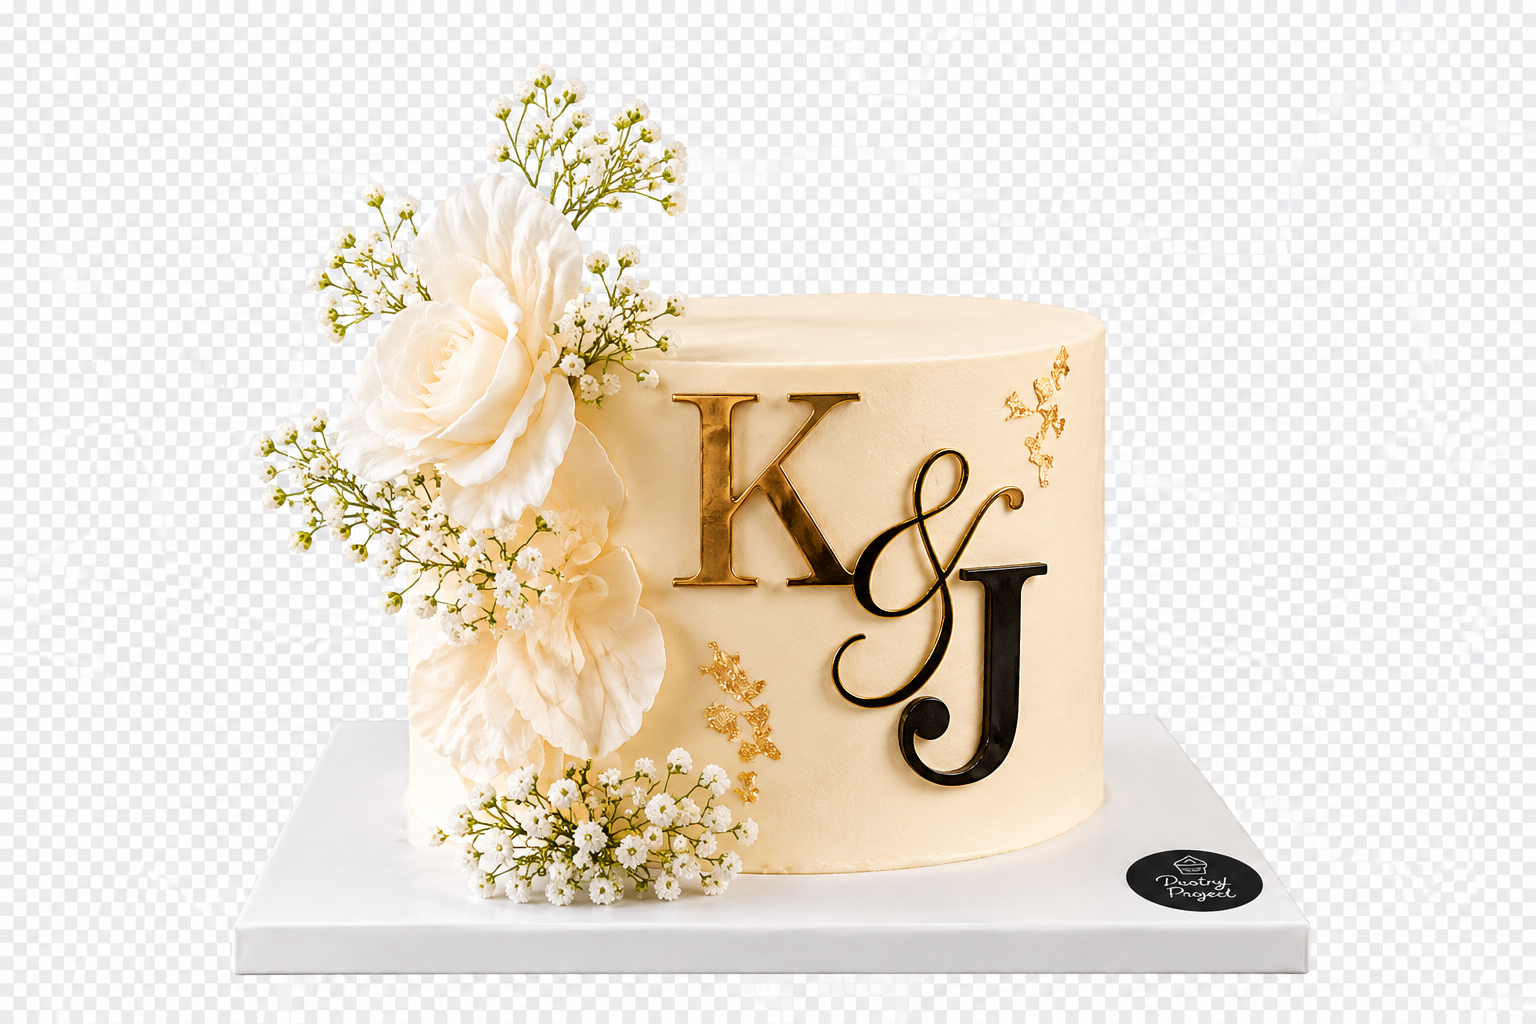
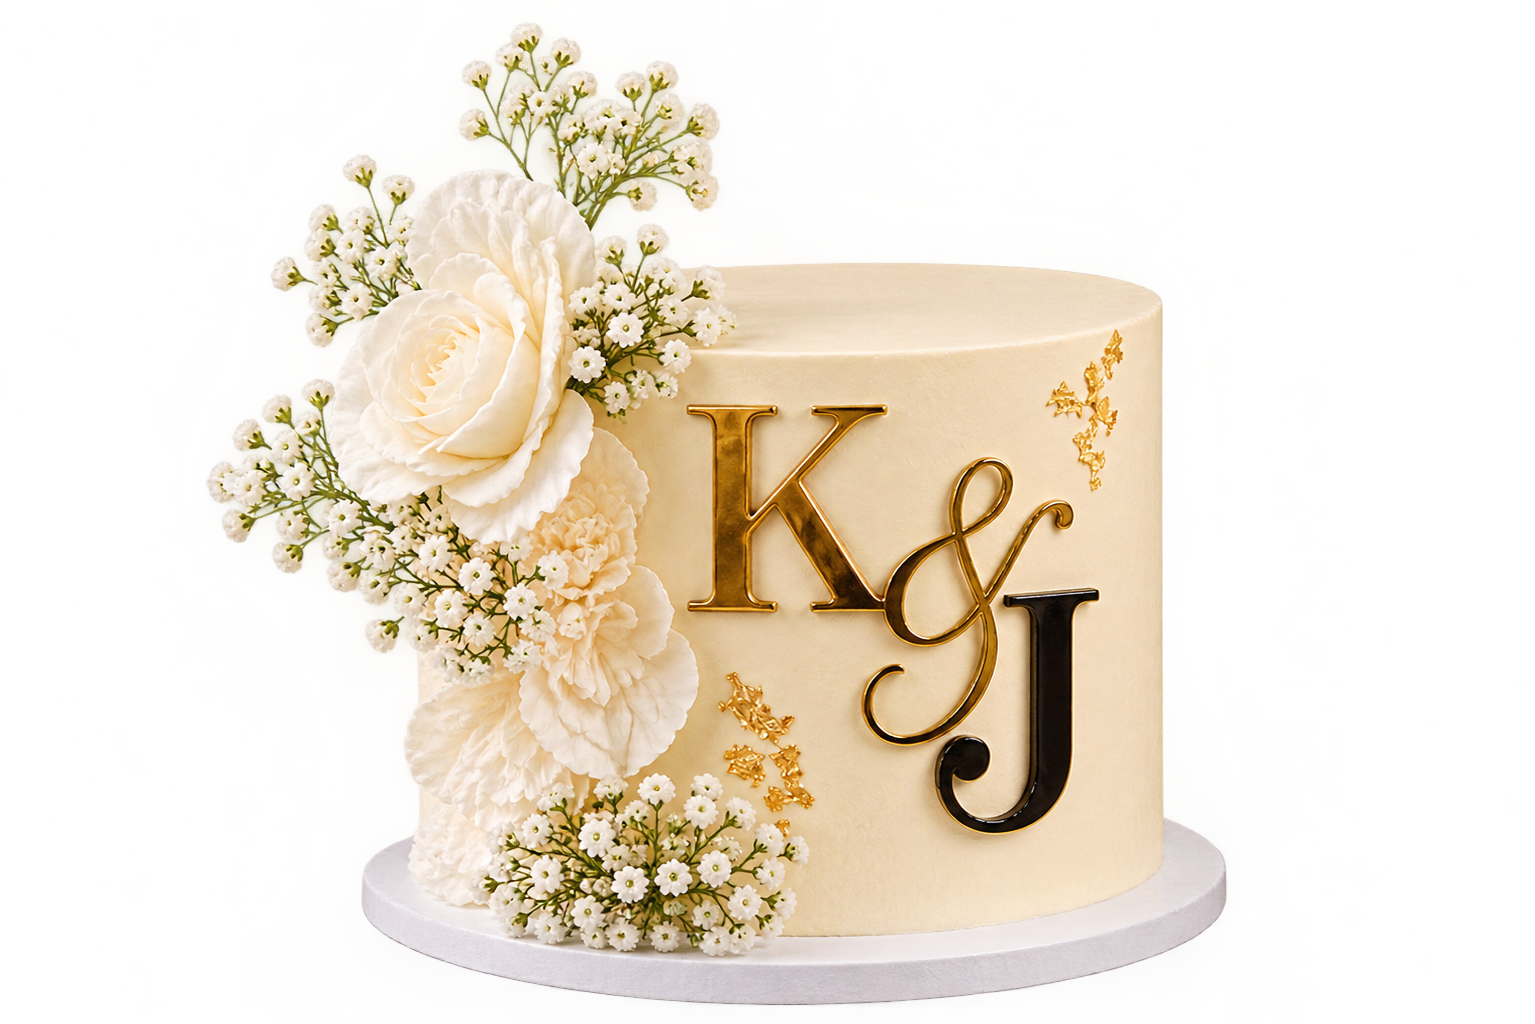
Refine mobile login cake hero

Changed region(s): [[0.1225, 0.0312, 0.8573, 1.0]]

diff --git a/customer_portal/src/customer/pages/Login.jsx b/customer_portal/src/customer/pages/Login.jsx
@@ -308,20 +308,32 @@ export default function Login() {
             line-height: 1.12;
           }
           .pastry-login .login-cake-section {
+            position: relative;
+            isolation: isolate;
             width: 100%;
             max-width: 355px;
             margin-top: 0;
           }
-          .pastry-login .login-cake-section > div { display: none; }
+          .pastry-login .login-cake-section::before {
+            content: "";
+            position: absolute;
+            z-index: -1;
+            inset: 8% 5% 3%;
+            border: 1px dashed rgba(201, 151, 45, 0.45);
+            border-radius: 50%;
+            background: radial-gradient(ellipse, rgba(255, 241, 196, 0.9) 0%, rgba(255, 241, 196, 0.5) 48%, rgba(255, 241, 196, 0) 74%);
+          }
           .pastry-login .login-cake-section img {
+            display: block;
             width: 100%;
             max-width: 100%;
             height: 300px;
-            border-radius: 18px;
-            object-fit: cover;
+            border-radius: 0;
+            object-fit: contain;
             object-position: center 46%;
             margin-inline: auto;
-            box-shadow: 0 10px 22px rgba(100, 78, 28, 0.14);
+            box-shadow: none;
+            filter: drop-shadow(0 12px 12px rgba(100, 78, 28, 0.12));
           }
           .pastry-login main > div:not(.hero-panel) {
             flex: 1 1 auto;
@@ -422,16 +434,42 @@ export default function Login() {
           .pastry-login .hero-panel > .mb-6:first-child h1 {
             font-family: 'Playfair Display', Georgia, serif;
             font-size: 22px;
-            font-style: italic;
+            font-style: normal;
+            font-weight: 700;
+            color: #171717;
           }
           .pastry-login .hero-panel > .mb-6:first-child h1 span { color: #e9aa32; }
           .pastry-login .login-card > .mb-4:first-child h2.login-welcome {
-            font-family: 'Playfair Display', Georgia, serif;
-            font-style: italic;
+            font-family: 'Pacifico', cursive;
+            font-style: normal;
+            font-weight: 400;
           }
           .pastry-login .hero-panel > .mb-6:first-child p { margin-top: 4px; font-size: 7px; letter-spacing: .35em; }
           .pastry-login .hero-panel > .mb-6:nth-child(2) { margin-bottom: 0; text-align: center; }
-          .pastry-login .login-cake-section { display: none; }
+          .pastry-login .login-cake-section {
+            position: relative;
+            isolation: isolate;
+            display: block;
+            width: min(100%, 300px);
+            max-width: 300px;
+            margin: 12px auto 0;
+          }
+          .pastry-login .login-cake-section::before {
+            content: "";
+            position: absolute;
+            z-index: -1;
+            inset: 8% 5% 3%;
+            border: 1px dashed rgba(201, 151, 45, 0.45);
+            border-radius: 50%;
+            background: radial-gradient(ellipse, rgba(255, 241, 196, 0.9) 0%, rgba(255, 241, 196, 0.5) 48%, rgba(255, 241, 196, 0) 74%);
+          }
+          .pastry-login .login-cake-section img {
+            width: 100%;
+            height: auto;
+            max-height: 220px;
+            object-fit: contain;
+            object-position: center;
+          }
           .pastry-login main > div:not(.hero-panel) { padding: 0 23px 20px; }
           .pastry-login .login-card {
             padding: 14px 30px 24px;
@@ -551,8 +589,8 @@ export default function Login() {
             <div className="mb-6 flex items-center gap-1">
               <img src={LOGO_URL} alt="Logo" className="h-14 w-14 object-contain" />
               <div>
-                <h1 className="brand-script text-2xl leading-none text-[#F0B94D]">
-                  Pastry <span className="text-[#171717]">Project</span>
+                <h1 className="brand-script text-2xl leading-none text-[#171717]">
+                  Pastry <span className="text-[#F0B94D]">Project</span>
                 </h1>
                 <p className="text-[9px] font-bold uppercase tracking-[0.3em] text-[#171717] opacity-80">Sweetening moments</p>
               </div>
@@ -568,11 +606,10 @@ export default function Login() {
 
             {/* Cake Image Section */}
             <div className="login-cake-section relative mt-2 max-w-lg">
-              <div className="absolute -left-5 bottom-0 h-40 w-40 rounded-full bg-[#171717] sm:-left-8 sm:h-[220px] sm:w-[220px] xl:h-[300px] xl:w-[300px]" />
               <img
-                src={`${ROOT_BASE}/uploads/login_cake.png?v=login-cake-20261010`}
+                src={`${ROOT_BASE}/uploads/login_cake.png?v=login-cake-20261010-v2`}
                 alt="Pastry Project Cake"
-                className="relative z-10 h-auto w-full max-w-[340px] rounded-[24px] object-contain shadow-2xl sm:rounded-[28px] sm:w-[340px] xl:w-[440px]"
+                className="relative z-10 h-auto w-full max-w-[340px] object-contain sm:w-[340px] xl:w-[440px]"
               />
             </div>
           </div>
